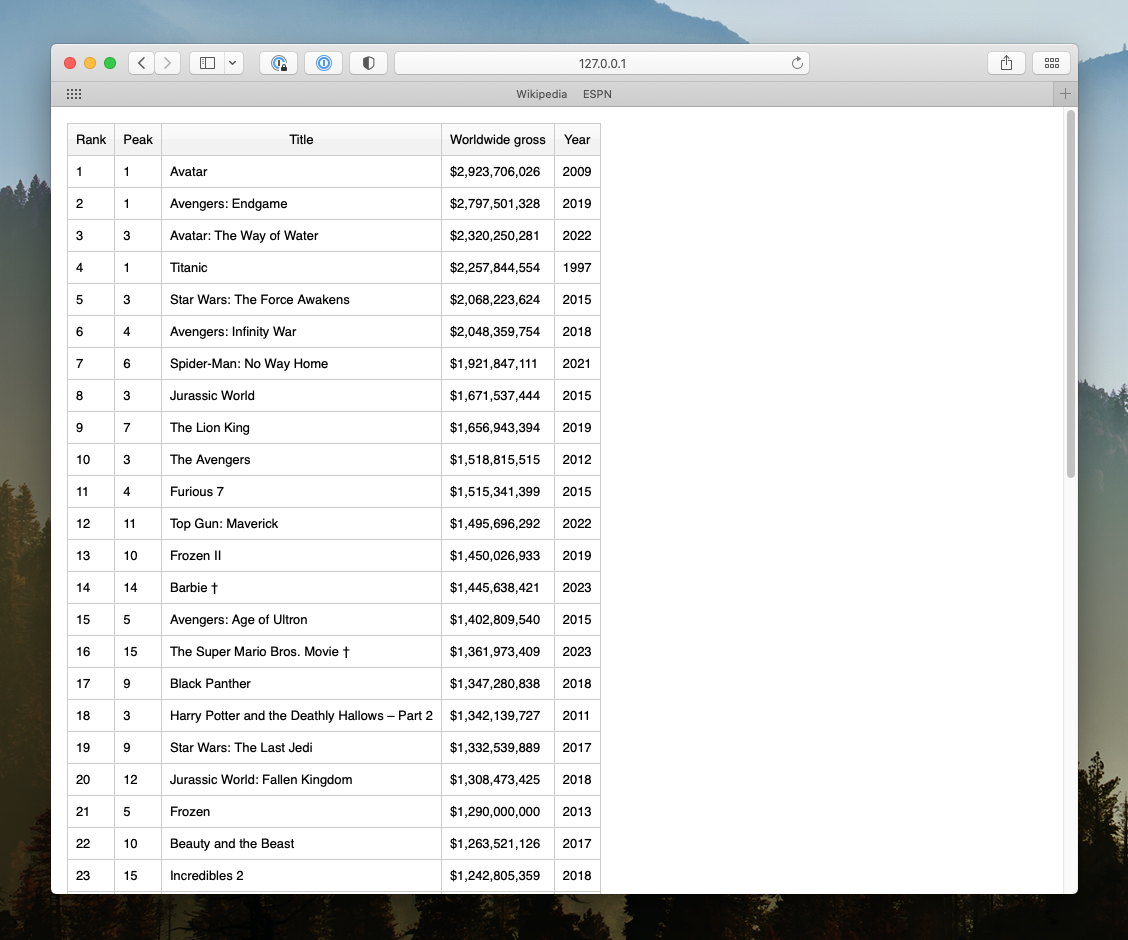
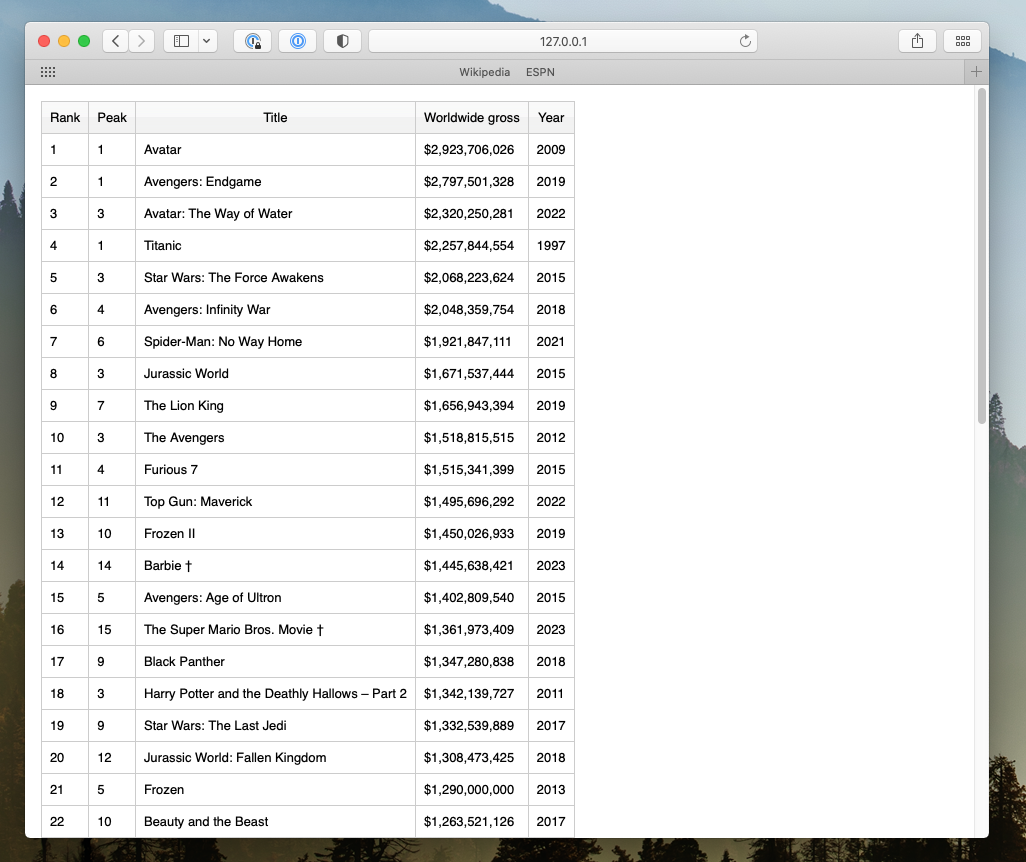
update images

Changed region(s): [[0.0, 0.0, 1.0, 1.0]]

diff --git a/readme.md b/readme.md
@@ -2,7 +2,7 @@
 
 Simple python web app to view CSV files on the browser. The CSV data will be rendered as an HTML table. This app uses [Flask](https://github.com/flask/flask) & [Gunicorn](https://github.com/gunicorn/gunicorn) with [ryt/runapp](https://github.com/ryt/runapp) for deployment.
 
-![](images/screen-shot-1.png)
+![](images/screen-shot-3.png)
 ![](images/screen-shot-2.png)
 
 ## Test/Development Server
